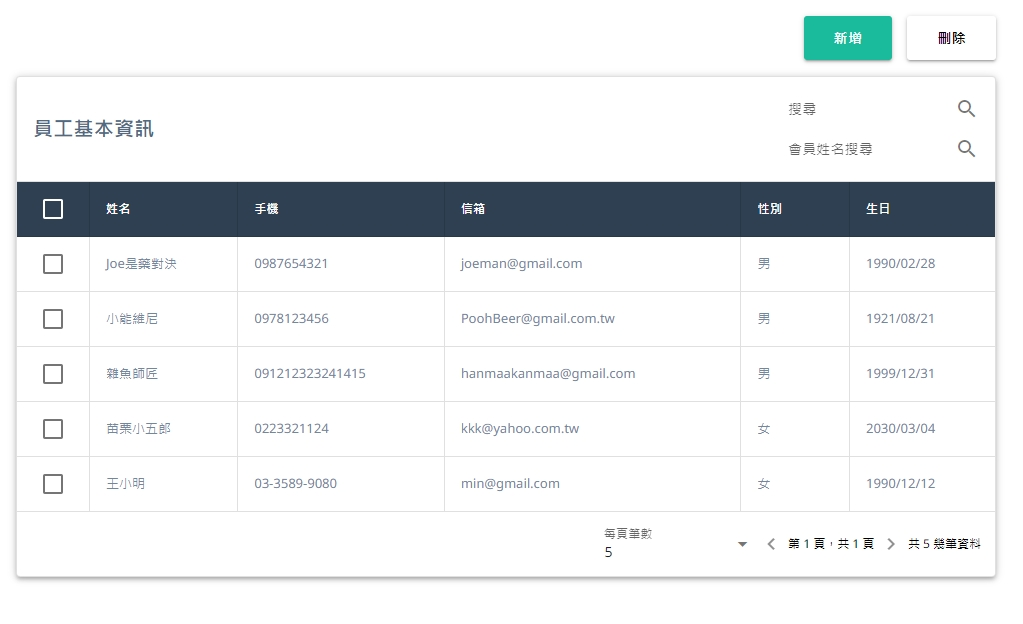
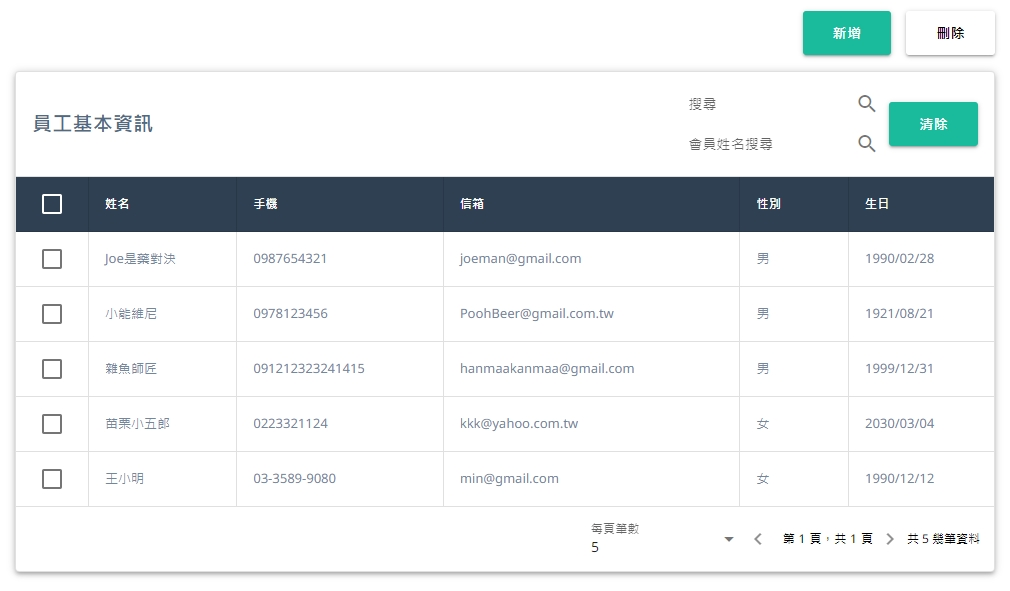
feat: add inputdialog
更新頁尾字體大小被影響問題,
新增搜尋清除按鈕,
新增按鈕功能修改加上彈窗使用者自行輸入資料, 簡單驗證

diff --git a/src/components/Dialog/QInputAddDialog.vue b/src/components/Dialog/QInputAddDialog.vue
@@ -1,0 +1,129 @@
+<template>
+  <q-dialog :model-value="isOpen" persistent>
+    <q-card class="dialogWrap">
+      <div class="row justify-end items-center q-pt-xs q-pr-xs">
+        <q-btn icon="close" flat dense @click="close"></q-btn>
+      </div>
+      <!-- Dialog title -->
+      <q-card-section
+        class="dialogTitle column no-wrap justify-center items-center"
+      >
+        <div class="q-ma-none text-h6 text-bold title">新增員工基本資訊</div>
+      </q-card-section>
+      <!-- Dialog input section -->
+      <q-card-section>
+        <q-form @submit="confirm" class="q-gutter-md">
+          <q-input
+            v-model="memberData.name"
+            label="姓名"
+            placeholder="請輸入員工姓名"
+            color="secondary"
+            lazy-rules
+            :rules="memberData.rules"
+          ></q-input>
+          <q-input
+            v-model="memberData.cellphone"
+            label="手機"
+            placeholder="請輸入員工電話"
+            type="tel"
+            color="secondary"
+            lazy-rules
+            :rules="memberData.numberRules"
+          ></q-input>
+          <q-input
+            v-model="memberData.email"
+            label="信箱"
+            placeholder="請輸入員工信箱"
+            type="email"
+            color="secondary"
+            lazy-rules
+            :rules="memberData.rules"
+          ></q-input>
+          <q-select
+            v-model="memberData.gender"
+            :options="genderOptions"
+            label="性別"
+            color="secondary"
+            lazy-rules
+            :rules="memberData.rules"
+          ></q-select>
+          <q-input
+            v-model="memberData.birthday"
+            type="date"
+            color="secondary"
+            lazy-rules
+            :rules="memberData.rules"
+          ></q-input>
+          <q-card-actions
+            align="center"
+            class="row no-wrap justify-center items-center q-px-md q-py-lg"
+          >
+            <q-btn class="btn" label="取消" @click="close" />
+            <q-btn class="btn primaryBtn" type="submit" label="確認" />
+          </q-card-actions>
+        </q-form>
+      </q-card-section>
+    </q-card>
+  </q-dialog>
+</template>
+
+<script setup>
+import { useStore } from "vuex";
+import { computed, reactive } from "vue";
+
+const store = useStore();
+const isOpen = computed(() => store.state.addDialog);
+const memberData = reactive({
+  name: "",
+  cellphone: "",
+  email: "",
+  gender: "",
+  birthday: "",
+  rules: [(val) => (val && val.length > 0) || "請輸入資料"],
+  numberRules: [
+    (val) => (val && val.length > 0 && /^\d+$/.test(val)) || "請輸入資料",
+  ],
+});
+const genderOptions = reactive(["男", "女"]);
+
+const newMemberData = computed(() => {
+  const data = {
+    name: memberData.name,
+    cellphone: memberData.cellphone,
+    email: memberData.email,
+    gender: memberData.gender,
+    birthday: `${memberData.birthday}T11:11:11.111Z`,
+  }
+  return data
+});
+
+const close = () => {
+  resetMemberData();
+  store.dispatch("handleOpenAddDialog", false);
+};
+
+const resetMemberData = () => {
+  for (const key in memberData) {
+    if (key === "rules") return;
+    if (memberData.hasOwnProperty(key)) {
+      memberData[key] = "";
+    }
+  }
+};
+
+const confirm = () => {
+  store.dispatch("handleOpenAddDialog", false);
+  store.dispatch("updateAdd", { state: true, data: newMemberData.value });
+  resetMemberData();
+};
+</script>
+
+<style lang="scss" scoped>
+.dialogWrap {
+  width: 360px;
+}
+
+.dialogTitle {
+  gap: 15px;
+}
+</style>

diff --git a/src/components/QTable.vue b/src/components/QTable.vue
@@ -22,29 +22,36 @@
       <!-- fit row justify-between items-center -->
       <div class="tableSearchWrap">
         <div class="text-h6 text-bold title">員工基本資訊</div>
-        <div class="searchInputs">
-          <q-input
-            borderless
-            dense
-            debounce="300"
-            v-model="filter"
-            placeholder="搜尋"
-          >
-            <template v-slot:append>
-              <q-icon name="search"></q-icon>
-            </template>
-          </q-input>
-          <q-input
-            borderless
-            dense
-            debounce="300"
-            v-model="ApiFilter"
-            placeholder="會員姓名搜尋"
-          >
-            <template v-slot:append>
-              <q-icon name="search"></q-icon>
-            </template>
-          </q-input>
+        <div class="searchWrap">
+          <div class="searchInputs">
+            <q-input
+              borderless
+              dense
+              debounce="300"
+              v-model="filter"
+              placeholder="搜尋"
+            >
+              <template v-slot:append>
+                <q-icon name="search"></q-icon>
+              </template>
+            </q-input>
+            <q-input
+              borderless
+              dense
+              debounce="300"
+              v-model="ApiFilter"
+              placeholder="會員姓名搜尋"
+            >
+              <template v-slot:append>
+                <q-icon name="search"></q-icon>
+              </template>
+            </q-input>
+          </div>
+          <q-btn
+            class="primaryBtn btn"
+            label="清除"
+            @click="handelResetInput"
+          />
         </div>
       </div>
     </template>
@@ -74,10 +81,11 @@
           :color="filter ? 'secondary' : 'warning'"
           size="lg"
         ></q-icon>
-        <span class="fontBase q-ml-sm">{{ message }} </span>
+        <span class="text-caption q-ml-sm">{{ message }}</span>
       </div>
     </template>
 
+    <!-- table bottom -->
     <template v-slot:bottom="scope">
       <div class="row justify-center items-center">
         <q-select
@@ -137,7 +145,7 @@
 </template>
 
 <script setup>
-import { ref, watch, computed } from "vue";
+import { ref, watch } from "vue";
 import { useStore } from "vuex";
 
 const props = defineProps({
@@ -177,6 +185,11 @@ const pagination = ref({
   rowsPerPage: 5,
 });
 
+const handelResetInput = () => {
+  filter.value = "";
+  ApiFilter.value = "";
+};
+
 // 監聽選取事件
 watch(selected, (newVla) => {
   store.dispatch("updateCount", newVla.length);
@@ -202,11 +215,25 @@ watch(ApiFilter, (newVla) => {
   justify-content: space-between;
   align-items: center;
   flex: 1;
+  .searchWrap {
+    display: flex;
+    align-items: center;
+    justify-content: center;
+    gap: 10px;
+    .searchInputs {
+      flex: 1 1 80%;
+    }
+    .btn {
+      text-wrap: nowrap;
+      flex: 1 1 20%;
+    }
+  }
+
   @media (max-width: 640px) {
     flex-direction: column;
     justify-content: center;
     gap: 10px;
-    .searchInputs {
+    .searchWrap {
       width: 100%;
     }
   }

diff --git a/src/pages/IndexPage.vue b/src/pages/IndexPage.vue
@@ -3,8 +3,8 @@
     <div class="block-item">
       <div class="row justify-end items-center">
         <div class="TableOperate row no-wrap justify-start items-start">
-          <q-btn class="primaryBtn btn" label="新增" @click="handleAddMember" />
-          <q-btn class="btn" label="刪除" @click="handleOpenDialog" />
+          <q-btn class="primaryBtn btn" label="新增" @click="handleOpenDialog('add')" />
+          <q-btn class="btn" label="刪除" @click="handleOpenDialog('remove')" />
         </div>
       </div>
       <QTable :columns="state.columns" :rows="state.rows" :loading="loading" @search="handleSearch" />
@@ -88,20 +88,17 @@ const getMembersData = async () => {
 };
 
 // 呼叫 Dialog
-const handleOpenDialog = () => {
-  store.dispatch("handleOpenDialog", true);
+const handleOpenDialog = (type) => {
+  if(type === 'add') {
+    store.dispatch('handleOpenAddDialog', true)
+  } else if (type === 'remove') {
+    store.dispatch("handleOpenDialog", true);
+  }
 };
 
 // 新增員工資料
 const handleAddMember = () => {
-  const fakeData = {
-    name: `name${Math.floor(Math.random() * 90000) + 10000}`,
-    cellphone: "0912345678",
-    email: "email1@email.com",
-    gender: "女",
-    birthday: "1997-12-19T11:11:11.111Z",
-  };
-  state.rows.unshift(fakeData);
+  state.rows.unshift(store.state.memberData);
 };
 
 // 刪除
@@ -144,6 +141,16 @@ watch(
   (newVal) => {
     if (newVal) {
       handleDelete();
+    }
+  }
+);
+
+// 監聽新增
+watch(
+  () => store.state.add,
+  (newVal) => {
+    if (newVal) {
+      handleAddMember();
     }
   }
 );

diff --git a/src/store/index.js b/src/store/index.js
@@ -4,9 +4,12 @@ const store = createStore({
   state() {
     return {
       selected: [],
+      memberData: {},
       isOpen: false,
+      addDialog: false,
       count: 0,
-      remove: false
+      remove: false,
+      add: false
     };
   },
   mutations: {
@@ -19,8 +22,15 @@ const store = createStore({
     SET_ISOPEN_STATE(state, payload) {
       state.isOpen = payload
     },
+    SET_ISOPEN_ADD_STATE(state, payload) {
+      state.addDialog = payload
+    },
     SET_REMOVE_STATE(state, payload) {
       state.remove = payload
+    },
+    SET_ADD_STATE(state, { state: newState, data }) {
+      state.add = newState;
+      state.memberData = {...data}
     },
   },
   actions: {
@@ -33,8 +43,14 @@ const store = createStore({
     handleOpenDialog({ commit }, state ) {
       commit('SET_ISOPEN_STATE', state)
     },
+    handleOpenAddDialog({ commit }, state ) {
+      commit('SET_ISOPEN_ADD_STATE', state)
+    },
     updateRemove({ commit }, state) {
       commit('SET_REMOVE_STATE', state)
+    },
+    updateAdd({ commit }, { state, data }) {
+      commit('SET_ADD_STATE', { state, data })
     },
   },
 });

diff --git a/src/App.vue b/src/App.vue
@@ -1,8 +1,10 @@
 <template>
   <RouterView />
   <QDialog />
+  <QInputAddDialog />
 </template>
 
 <script setup>
-import QDialog from "src/components/QDialog.vue";
+import QDialog from "src/components/Dialog/QDialog.vue";
+import QInputAddDialog from "src/components/Dialog/QInputAddDialog.vue";
 </script>
